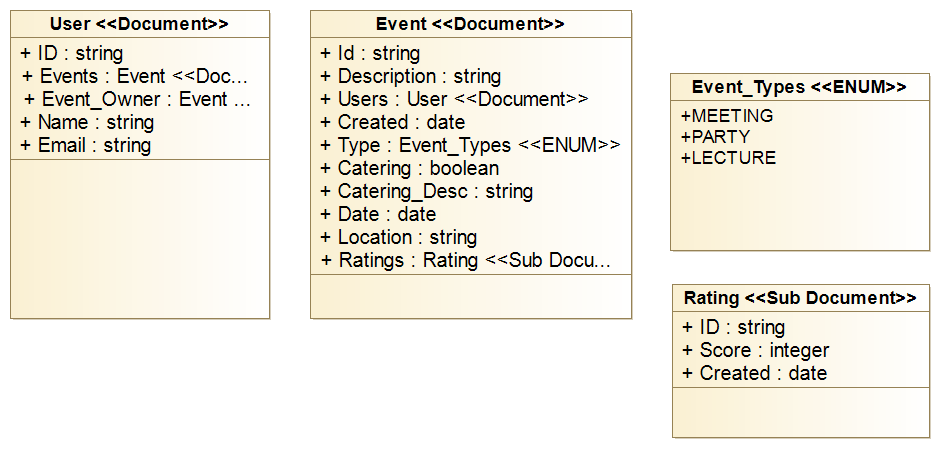
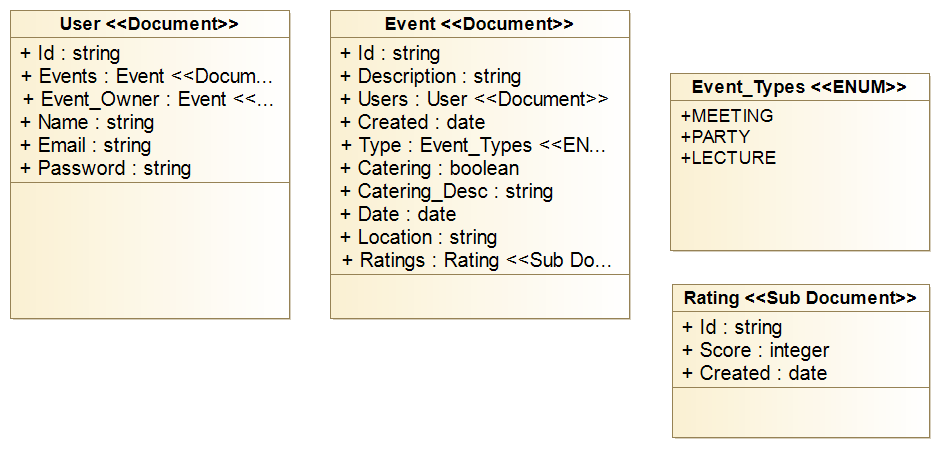
Add basic authentication

Changed region(s): [[0.0308, 0.0, 0.678, 0.7171], [0.0308, 0.343, 0.2157, 0.4053], [0.7396, 0.7171, 0.8321, 0.7483]]

diff --git a/Event_Engine/routes/event.js b/Event_Engine/routes/event.js
@@ -22,26 +22,25 @@ router.get("/", function(req, res) {
 router.post("/", function(req, res) {
   let event = new Event();
   event.Description = req.body.Description;
-                                      event.Type = req.body.Type;
-                                      event.Catering = req.body.Catering;
-                                      event.Catering_Desc =
-                                        req.body.Catering_Desc;
-                                      event.Date = req.body.Date;
-                                      event.Location = req.body.Location;
+  event.Type = req.body.Type;
+  event.Catering = req.body.Catering;
+  event.Catering_Desc = req.body.Catering_Desc;
+  event.Date = req.body.Date;
+  event.Location = req.body.Location;
 
-                                      // Calls automated processes related to received Event object
-                                      // EventHandler.handleEvent(event);
+// Calls automated processes related to received Event object
+// EventHandler.handleEvent(event);
 
-                                      let status = 200;
-                                      event.save(function(err) {
-                                        if (err) {
-                                          return res.send(err);
-                                        }
-                                      });
-                                      return res.json({
-                                        status: status
-                                      });
-                                    });
+  let status = 200;
+  event.save(function(err) {
+    if (err) {
+      return res.send(err);
+    }
+  });
+  return res.json({
+    status: status
+  });
+});
 
 router.get("/:id", function(req, res) {
   Event.findById(req.params.ID, function (err, event) {

diff --git a/Event_Engine/routes/authentication.js b/Event_Engine/routes/authentication.js
@@ -1,0 +1,38 @@
+const express = require("express");
+const router = express.Router();
+
+module.exports = router;
+
+const db = require("../db");
+const User = db.Mongoose.model("user", db.UserSchema, "user");
+
+router.post("/login", function (req, res) {
+  let status = 200;
+
+  let Email  = req.body.Email;
+  let Password = req.body.Password;
+
+  User.findOne({ Email: Email }, function (err, user) {
+    if (err) {
+      return res.send(err);
+    }
+    console.log("COMPARING NOW ");
+    console.log(user);
+    console.log("DB DOCUMENT: " + user.Password)
+    console.log("FROM REST CALL : "+ Password)
+    if (user.Password == Password){
+    return res.json({
+      status: status,
+      data: user
+    });
+  }
+  status = 400
+    return res.json({
+      status: status,
+    });
+  })
+});
+
+router.post("/logout", function (req, res) {
+  return;
+});

diff --git a/Event_Engine/index.js b/Event_Engine/index.js
@@ -14,9 +14,6 @@ const option = {
   useUnifiedTopology: true
 };
 
-
-console.log("BEFORE CONNECT");
-
 mongoose.connect("mongodb://127.0.0.1:27017/event-organiser", option).then(
   function() {
     console.log("Connected to database");
@@ -25,9 +22,6 @@ mongoose.connect("mongodb://127.0.0.1:27017/event-organiser", option).then(
     console.log("Not connected to database " + err);
   }
 );
-
-console.log("AFTER CONNECT");
-
 
 app.use(bodyParser.json({ type: 'application/json' }));
 app.use(cors());

diff --git a/Event_Engine/routes.js b/Event_Engine/routes.js
@@ -2,10 +2,11 @@ const express = require("express");
 const eventRoutes = require("./routes/event");
 const userRoutes = require("./routes/user");
 const ratingRoutes = require("./routes/rating");
+const authRoutes = require("./routes/authentication");
 const router = express.Router();
 
 router.use("/users", userRoutes);
 router.use("/events", eventRoutes);
 router.use("/events", ratingRoutes);
-
+router.use("/", authRoutes);
 module.exports = router;

diff --git a/Event_Engine/db.js b/Event_Engine/db.js
@@ -10,7 +10,8 @@ var userSchema = new mongoose.Schema({
   Name: String,
   Events: [{ type: Schema.Types.ObjectId, ref: "event" }],
   Event_Owner: [{ type: Schema.Types.ObjectId, ref: "event" }],
-  Email: String
+  Email: { type: String, unique: true, required: true }, 
+  Password: String
 });
 
 var eventSchema = new mongoose.Schema({

diff --git a/Event_Engine/routes/user.js b/Event_Engine/routes/user.js
@@ -22,7 +22,8 @@ router.post("/", function(req, res) {
   let user = new User();
   user.Name = req.body.Name;
   user.Email = req.body.Email;
-
+  user.Password = req.body.Password;
+  
   let status = 200;
   user.save(function(err) {
     if(err) {

diff --git a/README.md b/README.md
@@ -85,6 +85,13 @@ An email and ordering micro-service used to send orders or emails to those requi
 | `/events/{event_id}/ratings`      | Returns a list of ratings associated with the specified event`|
 | `/events/{event_id}/ratings/{id}`| Returns a rating associated with the specified event and id` |
 
+#### Authentication
+
+| Parameter                    | Description                       |
+|:----------------------------|:----------------------------------|
+|POST `/login`| Logs a user in, returns a user object` |
+|POST `/logout`| Logs a user out of a session` |
+
 #### VPN Validator Service
 
 ##### Connections 
